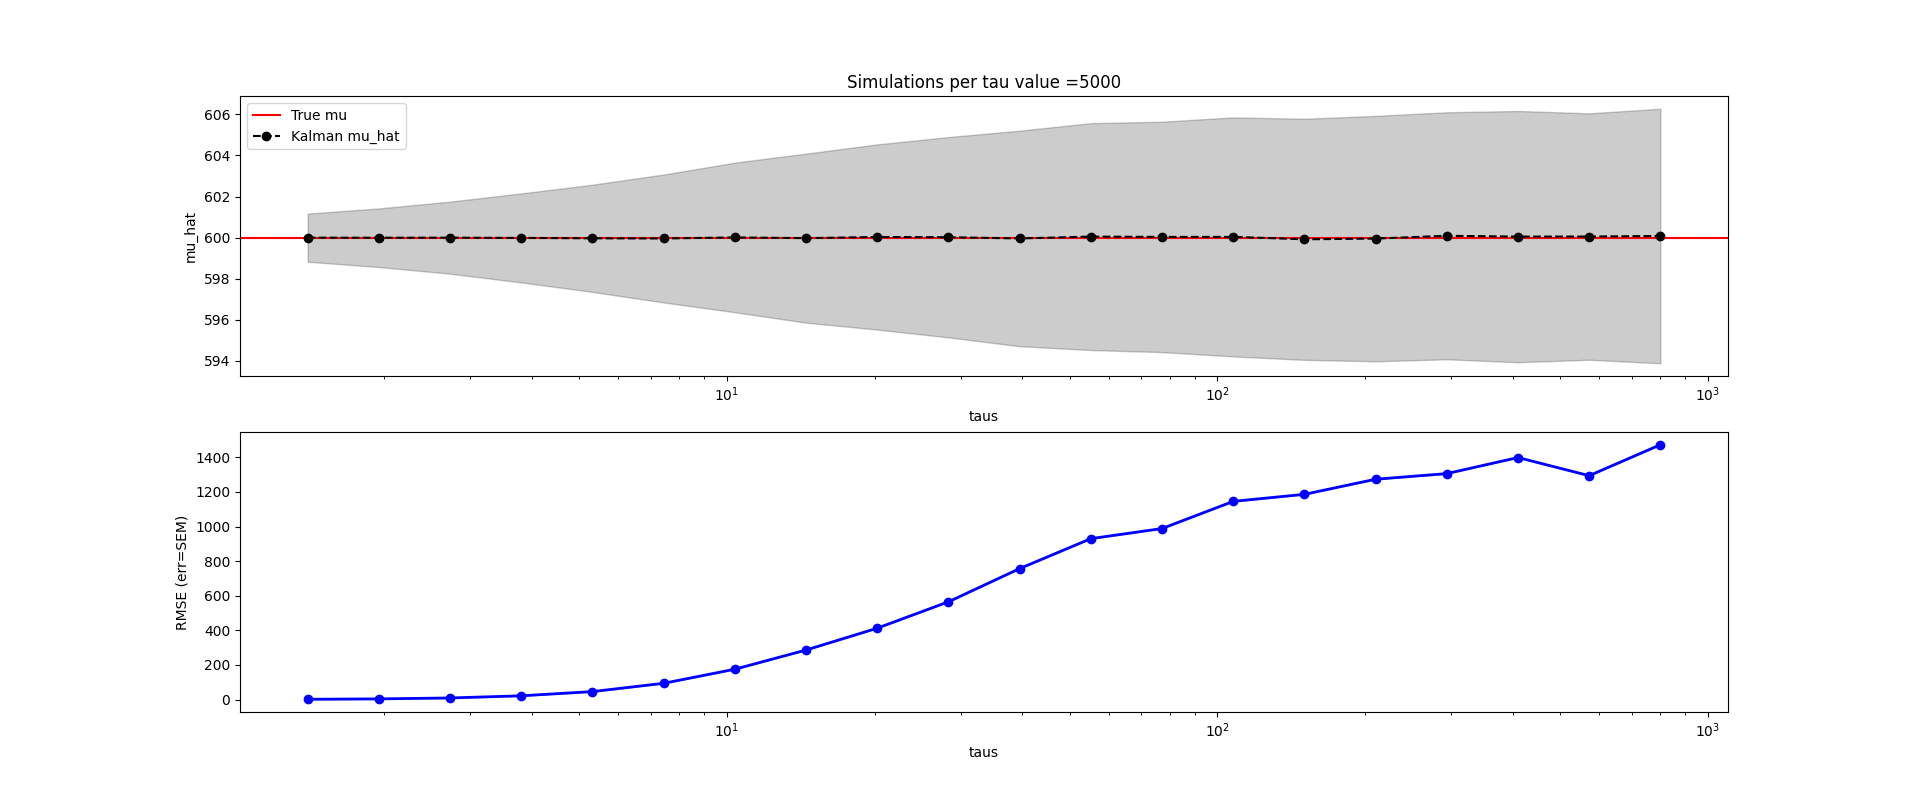
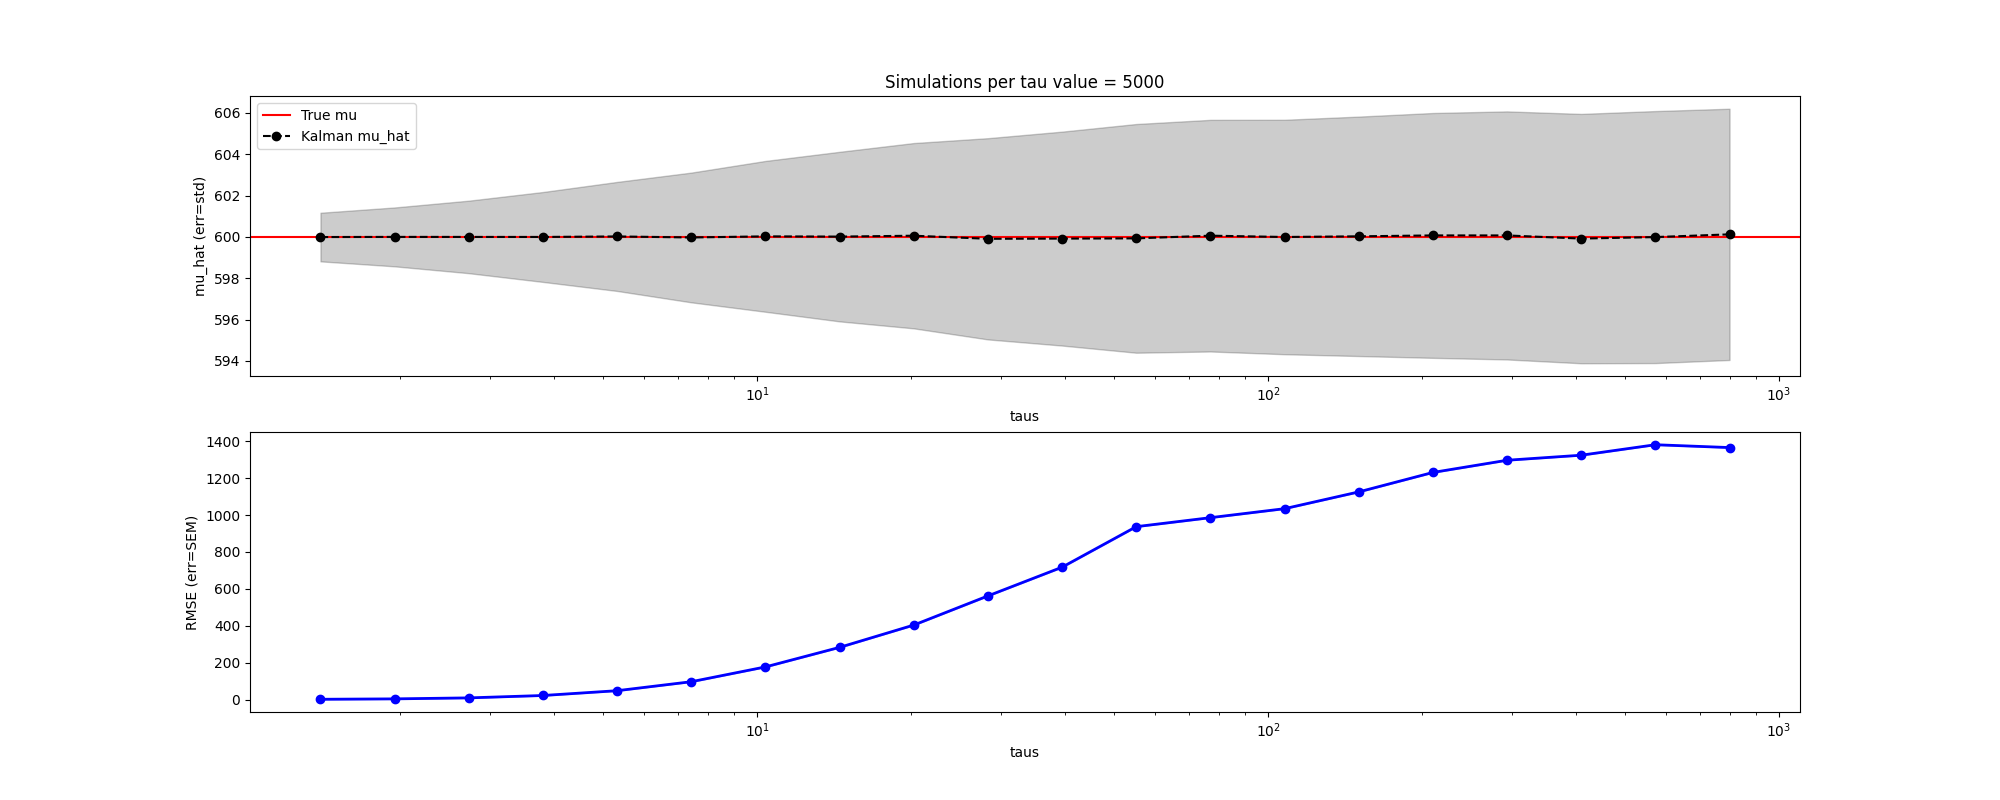
error bar

diff --git a/kalman_example.py b/kalman_example.py
@@ -63,7 +63,7 @@ if __name__=='__main__':
     axs[0].plot(taus, mu_estimates, label='Kalman mu_hat', color='black', linestyle='--', marker='o') 
     axs[0].fill_between(taus, np.array(mu_estimates)-np.array(mu_estimates_std), np.array(mu_estimates)+np.array(mu_estimates_std), color='black', alpha=0.2)
     axs[0].set_xlabel('taus')
-    axs[0].set_ylabel('mu_hat')
+    axs[0].set_ylabel('mu_hat (err=std)')
     axs[0].set_xscale('log')
     axs[0].legend()
 
@@ -75,7 +75,7 @@ if __name__=='__main__':
     axs[1].set_ylabel('RMSE (err=SEM)')
 
     # Add title to overall figure mentioning N_test
-    axs[0].set_title(f'Simulations per tau value ={N_test}')
+    axs[0].set_title(f'Simulations per tau value = {N_test}')
     plt.show()
 
 
